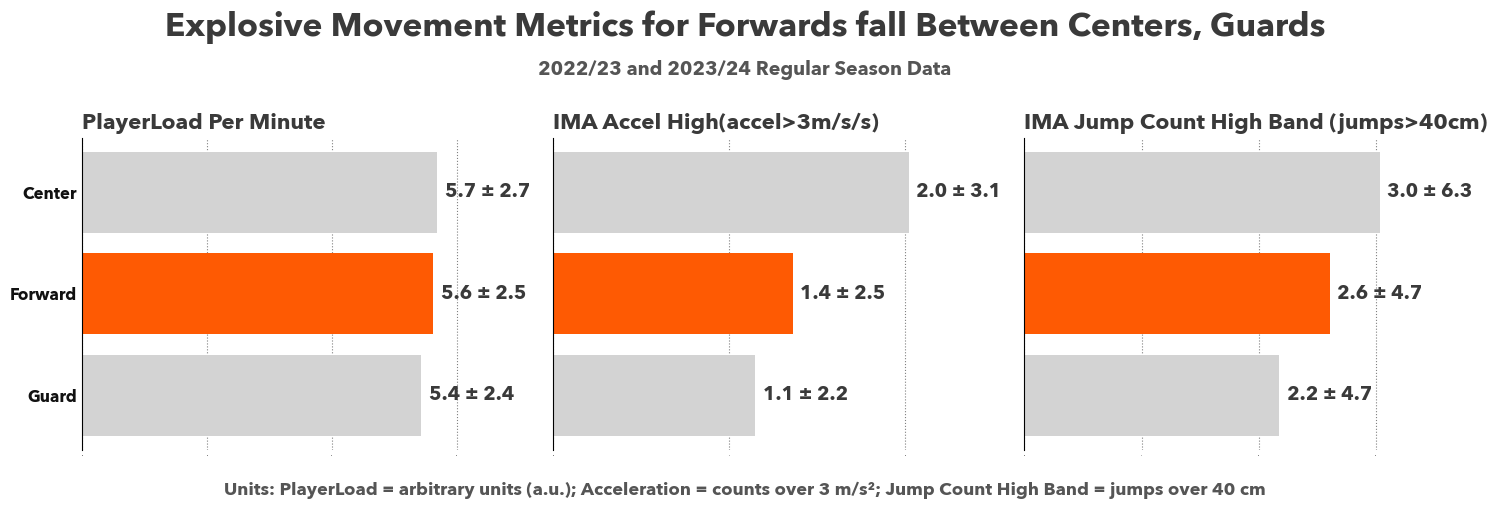
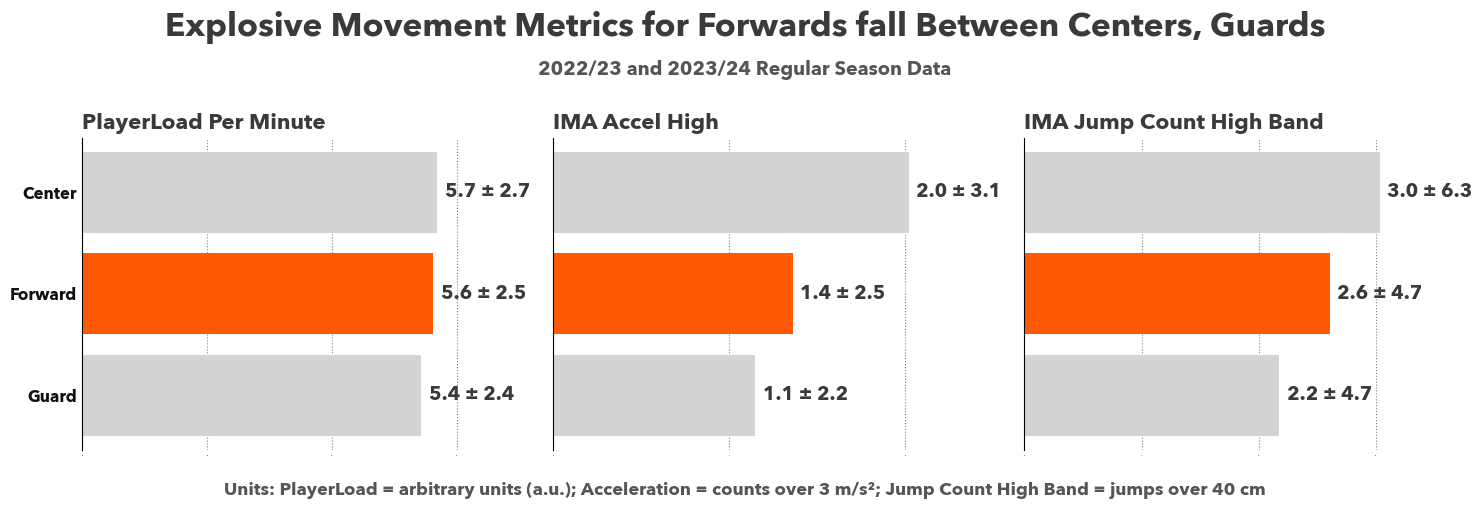
updating graph 1

diff --git a/docs/eda.html b/docs/eda.html
@@ -6,7 +6,7 @@
 
 <meta name="viewport" content="width=device-width, initial-scale=1.0, user-scalable=yes">
 
-<meta name="description" content="Exploring Positional Workloads from the 2022/23 and 2023/24 Seasons">
+<meta name="description" content="How Practice Intensity May Be Affecting UVA Basketball’s Performance">
 
 <title>Exploratory Data Analysis – Player Load &amp; Explosive Movement Analysis - UVA Men's Basketball</title>
 <style>
@@ -220,11 +220,11 @@ pre > code.sourceCode > span > a:first-child::before { text-decoration: underlin
 
 <section id="descriptive-statistics-distributions" class="level3">
 <h3 class="anchored" data-anchor-id="descriptive-statistics-distributions">Descriptive Statistics &amp; Distributions</h3>
-<div id="9b5e4a67" class="cell" data-execution_count="2">
+<div id="8f72082a" class="cell" data-execution_count="2">
 <div class="sourceCode cell-code" id="cb1"><pre class="sourceCode python code-with-copy"><code class="sourceCode python"><span id="cb1-1"><a href="#cb1-1" aria-hidden="true" tabindex="-1"></a><span class="co"># Pulling out key numeric variables</span></span>
 <span id="cb1-2"><a href="#cb1-2" aria-hidden="true" tabindex="-1"></a>vars_list <span class="op">=</span> [<span class="st">'Total Player Load'</span>, <span class="st">'Player Load Per Minute'</span>, <span class="st">'IMA Accel High'</span>, <span class="st">'IMA Jump Count High Band'</span>, <span class="st">'Session Total Jumps'</span>]</span></code><button title="Copy to Clipboard" class="code-copy-button"><i class="bi"></i></button></pre></div>
 </div>
-<div id="0e5939ed" class="cell" data-execution_count="3">
+<div id="488b7097" class="cell" data-execution_count="3">
 <div class="sourceCode cell-code" id="cb2"><pre class="sourceCode python code-with-copy"><code class="sourceCode python"><span id="cb2-1"><a href="#cb2-1" aria-hidden="true" tabindex="-1"></a>forward_df.describe(include<span class="op">=</span>[<span class="bu">int</span>, <span class="bu">float</span>])</span></code><button title="Copy to Clipboard" class="code-copy-button"><i class="bi"></i></button></pre></div>
 <div class="cell-output cell-output-display" data-execution_count="3">
 <div>
@@ -321,7 +321,7 @@ pre > code.sourceCode > span > a:first-child::before { text-decoration: underlin
 </div>
 </div>
 </div>
-<div id="e51ab042" class="cell" data-execution_count="4">
+<div id="7c05da56" class="cell" data-execution_count="4">
 <div class="sourceCode cell-code" id="cb3"><pre class="sourceCode python code-with-copy"><code class="sourceCode python"><span id="cb3-1"><a href="#cb3-1" aria-hidden="true" tabindex="-1"></a>center_df.describe(include<span class="op">=</span>[<span class="bu">int</span>, <span class="bu">float</span>])</span></code><button title="Copy to Clipboard" class="code-copy-button"><i class="bi"></i></button></pre></div>
 <div class="cell-output cell-output-display" data-execution_count="4">
 <div>
@@ -418,7 +418,7 @@ pre > code.sourceCode > span > a:first-child::before { text-decoration: underlin
 </div>
 </div>
 </div>
-<div id="db39394c" class="cell" data-execution_count="5">
+<div id="85d4fc17" class="cell" data-execution_count="5">
 <div class="sourceCode cell-code" id="cb4"><pre class="sourceCode python code-with-copy"><code class="sourceCode python"><span id="cb4-1"><a href="#cb4-1" aria-hidden="true" tabindex="-1"></a>guard_df.describe(include<span class="op">=</span>[<span class="bu">int</span>, <span class="bu">float</span>])</span></code><button title="Copy to Clipboard" class="code-copy-button"><i class="bi"></i></button></pre></div>
 <div class="cell-output cell-output-display" data-execution_count="5">
 <div>
@@ -516,7 +516,7 @@ pre > code.sourceCode > span > a:first-child::before { text-decoration: underlin
 </div>
 </div>
 <p>Mean total player load is highest for forwards, but they also have more variance. It seems that centers have more high band jumps and high accelerations than forwards, indicating that they may not be exerting much effort. We will proceed by exploring our forwards dataframe.</p>
-<div id="ec377c40" class="cell" data-execution_count="6">
+<div id="77178b73" class="cell" data-execution_count="6">
 <div class="sourceCode cell-code" id="cb5"><pre class="sourceCode python code-with-copy"><code class="sourceCode python"><span id="cb5-1"><a href="#cb5-1" aria-hidden="true" tabindex="-1"></a>sns.lineplot(data<span class="op">=</span>forward_df, x<span class="op">=</span><span class="st">'Period Number'</span>, y<span class="op">=</span><span class="st">'Player Load Per Minute'</span>, hue<span class="op">=</span><span class="st">'About'</span>, legend<span class="op">=</span><span class="va">False</span>, alpha<span class="op">=</span><span class="fl">0.5</span>)</span>
 <span id="cb5-2"><a href="#cb5-2" aria-hidden="true" tabindex="-1"></a>sns.despine()</span>
 <span id="cb5-3"><a href="#cb5-3" aria-hidden="true" tabindex="-1"></a>plt.title(<span class="st">"PlayerLoad by Period"</span>)</span>
@@ -531,7 +531,7 @@ pre > code.sourceCode > span > a:first-child::before { text-decoration: underlin
 </div>
 </div>
 <p>We can see that PlayerLoad does change by period, peaking with periods around 2. From our dataframe it appears these are the game periods, indicating higher effort exerted during games than practices by forwards. This should be noted as we progress throughout our project.</p>
-<div id="9ed565bb" class="cell" data-execution_count="7">
+<div id="5334c2fd" class="cell" data-execution_count="7">
 <div class="sourceCode cell-code" id="cb6"><pre class="sourceCode python code-with-copy"><code class="sourceCode python"><span id="cb6-1"><a href="#cb6-1" aria-hidden="true" tabindex="-1"></a>fig, axes <span class="op">=</span> plt.subplots(<span class="bu">len</span>(vars_list), <span class="dv">1</span>, figsize<span class="op">=</span>(<span class="dv">4</span>, <span class="dv">2</span><span class="op">*</span><span class="bu">len</span>(vars_list)))</span>
 <span id="cb6-2"><a href="#cb6-2" aria-hidden="true" tabindex="-1"></a></span>
 <span id="cb6-3"><a href="#cb6-3" aria-hidden="true" tabindex="-1"></a><span class="cf">for</span> i, column <span class="kw">in</span> <span class="bu">enumerate</span>(vars_list):</span>
@@ -551,7 +551,7 @@ pre > code.sourceCode > span > a:first-child::before { text-decoration: underlin
 </div>
 </div>
 <p>Session total jumps appears to be roughly normally distributed here, as well as player load per minute. Our other variables are skewed to the right, indicating we have high outliers. We can look at boxplots of our skewed variables to explore this further.</p>
-<div id="901c5a66" class="cell" data-execution_count="8">
+<div id="396cf0e7" class="cell" data-execution_count="8">
 <div class="sourceCode cell-code" id="cb7"><pre class="sourceCode python code-with-copy"><code class="sourceCode python"><span id="cb7-1"><a href="#cb7-1" aria-hidden="true" tabindex="-1"></a>sns.boxplot(forward_df[<span class="st">'Total Player Load'</span>])</span>
 <span id="cb7-2"><a href="#cb7-2" aria-hidden="true" tabindex="-1"></a>plt.title(<span class="st">'Boxplot of Total Player Load'</span>)</span>
 <span id="cb7-3"><a href="#cb7-3" aria-hidden="true" tabindex="-1"></a>sns.despine()</span>
@@ -564,7 +564,7 @@ pre > code.sourceCode > span > a:first-child::before { text-decoration: underlin
 </div>
 </div>
 </div>
-<div id="03b4ae02" class="cell" data-execution_count="9">
+<div id="6b565cdb" class="cell" data-execution_count="9">
 <div class="sourceCode cell-code" id="cb8"><pre class="sourceCode python code-with-copy"><code class="sourceCode python"><span id="cb8-1"><a href="#cb8-1" aria-hidden="true" tabindex="-1"></a>sns.boxplot(forward_df[<span class="st">'IMA Accel High'</span>])</span>
 <span id="cb8-2"><a href="#cb8-2" aria-hidden="true" tabindex="-1"></a>plt.title(<span class="st">'Boxplot of IMA Accel High'</span>)</span>
 <span id="cb8-3"><a href="#cb8-3" aria-hidden="true" tabindex="-1"></a>sns.despine()</span>
@@ -577,7 +577,7 @@ pre > code.sourceCode > span > a:first-child::before { text-decoration: underlin
 </div>
 </div>
 </div>
-<div id="4d1ade00" class="cell" data-execution_count="10">
+<div id="10f8c48e" class="cell" data-execution_count="10">
 <div class="sourceCode cell-code" id="cb9"><pre class="sourceCode python code-with-copy"><code class="sourceCode python"><span id="cb9-1"><a href="#cb9-1" aria-hidden="true" tabindex="-1"></a>sns.boxplot(forward_df[<span class="st">'IMA Jump Count High Band'</span>])</span>
 <span id="cb9-2"><a href="#cb9-2" aria-hidden="true" tabindex="-1"></a>plt.title(<span class="st">'Boxplot of IMA Jump Count High Band'</span>)</span>
 <span id="cb9-3"><a href="#cb9-3" aria-hidden="true" tabindex="-1"></a>sns.despine()</span>
@@ -591,7 +591,7 @@ pre > code.sourceCode > span > a:first-child::before { text-decoration: underlin
 </div>
 </div>
 <p>There are clearly many high outliers in our data set</p>
-<div id="88e6379e" class="cell" data-execution_count="11">
+<div id="da9c4086" class="cell" data-execution_count="11">
 <div class="sourceCode cell-code" id="cb10"><pre class="sourceCode python code-with-copy"><code class="sourceCode python"><span id="cb10-1"><a href="#cb10-1" aria-hidden="true" tabindex="-1"></a><span class="co">#games_df = df[df['Period'].isin(['2. Period 1', '3. Period 2', '1. Warmup'])]</span></span>
 <span id="cb10-2"><a href="#cb10-2" aria-hidden="true" tabindex="-1"></a><span class="co">#practice_df = df[~df['Period'].isin(['2. Period 1', '3. Period 2', '1. Warmup'])]</span></span>
 <span id="cb10-3"><a href="#cb10-3" aria-hidden="true" tabindex="-1"></a></span>
@@ -601,7 +601,7 @@ pre > code.sourceCode > span > a:first-child::before { text-decoration: underlin
 </section>
 <section id="exploring-relationships-between-our-variables" class="level3">
 <h3 class="anchored" data-anchor-id="exploring-relationships-between-our-variables">Exploring relationships between our variables</h3>
-<div id="fb63965b" class="cell" data-execution_count="12">
+<div id="72318b5e" class="cell" data-execution_count="12">
 <div class="sourceCode cell-code" id="cb11"><pre class="sourceCode python code-with-copy"><code class="sourceCode python"><span id="cb11-1"><a href="#cb11-1" aria-hidden="true" tabindex="-1"></a><span class="co"># Pairplots showing correlation between our key variables</span></span>
 <span id="cb11-2"><a href="#cb11-2" aria-hidden="true" tabindex="-1"></a>key_vars_df <span class="op">=</span> forward_df[vars_list]</span>
 <span id="cb11-3"><a href="#cb11-3" aria-hidden="true" tabindex="-1"></a>sns.pairplot(key_vars_df, plot_kws<span class="op">=</span>{<span class="st">'color'</span>: <span class="st">'orange'</span>})</span>
@@ -615,7 +615,7 @@ pre > code.sourceCode > span > a:first-child::before { text-decoration: underlin
 </div>
 </div>
 <p>From the pair plots it can be seen that there is a moderate correlation between Total Player Load and IMA Accel High. Other than that there are no relationships that seem to show great correlation between our variables. Collinearity does not appear to be of concern but we can look at a heatmap of our most important variables to explore more precise values.</p>
-<div id="d9257ba1" class="cell" data-execution_count="13">
+<div id="ad34aa9e" class="cell" data-execution_count="13">
 <div class="sourceCode cell-code" id="cb12"><pre class="sourceCode python code-with-copy"><code class="sourceCode python"><span id="cb12-1"><a href="#cb12-1" aria-hidden="true" tabindex="-1"></a>selected_cols <span class="op">=</span> [<span class="st">'Player Load Per Minute'</span>, <span class="st">'IMA Accel High'</span>, <span class="st">'IMA Jump Count High Band'</span>]</span>
 <span id="cb12-2"><a href="#cb12-2" aria-hidden="true" tabindex="-1"></a>key_corr <span class="op">=</span> forward_df[selected_cols].corr()</span>
 <span id="cb12-3"><a href="#cb12-3" aria-hidden="true" tabindex="-1"></a></span>

diff --git a/docs/datacleaning.html b/docs/datacleaning.html
@@ -6,7 +6,7 @@
 
 <meta name="viewport" content="width=device-width, initial-scale=1.0, user-scalable=yes">
 
-<meta name="description" content="Exploring Positional Workloads from the 2022/23 and 2023/24 Seasons">
+<meta name="description" content="How Practice Intensity May Be Affecting UVA Basketball’s Performance">
 
 <title>Data Cleaning – Player Load &amp; Explosive Movement Analysis - UVA Men's Basketball</title>
 <style>
@@ -217,7 +217,7 @@ pre > code.sourceCode > span > a:first-child::before { text-decoration: underlin
 
 <section id="initial-exploration-variable-selection" class="level3">
 <h3 class="anchored" data-anchor-id="initial-exploration-variable-selection">Initial Exploration, Variable Selection</h3>
-<div id="714b8285" class="cell" data-execution_count="2">
+<div id="5d54d0e1" class="cell" data-execution_count="2">
 <div class="sourceCode cell-code" id="cb1"><pre class="sourceCode python code-with-copy"><code class="sourceCode python"><span id="cb1-1"><a href="#cb1-1" aria-hidden="true" tabindex="-1"></a>s1_df <span class="op">=</span> pd.read_csv(<span class="st">"../project/EDA/Data/catapult_s1.csv"</span>)</span>
 <span id="cb1-2"><a href="#cb1-2" aria-hidden="true" tabindex="-1"></a>s1_df <span class="op">=</span> pd.DataFrame(s1_df)</span>
 <span id="cb1-3"><a href="#cb1-3" aria-hidden="true" tabindex="-1"></a></span>
@@ -225,17 +225,17 @@ pre > code.sourceCode > span > a:first-child::before { text-decoration: underlin
 <span id="cb1-5"><a href="#cb1-5" aria-hidden="true" tabindex="-1"></a>s2_df <span class="op">=</span> pd.DataFrame(s2_df)</span></code><button title="Copy to Clipboard" class="code-copy-button"><i class="bi"></i></button></pre></div>
 </div>
 <p>Our first step in preparing our data was reading it in. We read in the two dataframes for the individual UVA basketball seasons(2022-23 and 2023-24). Note: This data is simulated</p>
-<div id="fc4b4d04" class="cell" data-execution_count="3">
+<div id="9d3185e5" class="cell" data-execution_count="3">
 <div class="sourceCode cell-code" id="cb2"><pre class="sourceCode python code-with-copy"><code class="sourceCode python"><span id="cb2-1"><a href="#cb2-1" aria-hidden="true" tabindex="-1"></a>s1_df[<span class="st">'Season'</span>] <span class="op">=</span> <span class="st">'Season 1'</span></span>
 <span id="cb2-2"><a href="#cb2-2" aria-hidden="true" tabindex="-1"></a>s2_df[<span class="st">'Season'</span>] <span class="op">=</span> <span class="st">'Season 2'</span></span>
 <span id="cb2-3"><a href="#cb2-3" aria-hidden="true" tabindex="-1"></a>df <span class="op">=</span> pd.concat([s1_df, s2_df], ignore_index<span class="op">=</span><span class="va">True</span>)</span></code><button title="Copy to Clipboard" class="code-copy-button"><i class="bi"></i></button></pre></div>
 </div>
 <p>We then combined both seasons, centralizing our data into one single dataframe.</p>
-<div id="6874d89c" class="cell" data-execution_count="4">
+<div id="1ae90c7b" class="cell" data-execution_count="4">
 <div class="sourceCode cell-code" id="cb3"><pre class="sourceCode python code-with-copy"><code class="sourceCode python"><span id="cb3-1"><a href="#cb3-1" aria-hidden="true" tabindex="-1"></a>df <span class="op">=</span> df[[<span class="st">'Date'</span>, <span class="st">'Season'</span>, <span class="st">'About'</span>, <span class="st">'Position'</span>, <span class="st">'Period Number'</span>, <span class="st">'Period'</span>, <span class="st">'Total Player Load'</span>, <span class="st">'Player Load Per Minute'</span>, <span class="st">'IMA Accel High'</span>, <span class="st">'IMA Jump Count High Band'</span>, <span class="st">'Session Total Jumps'</span>]]</span></code><button title="Copy to Clipboard" class="code-copy-button"><i class="bi"></i></button></pre></div>
 </div>
 <p>Once we had all of our data read into one dataframe, we filtered it down to include only our variables of interest (as shown above). We wanted to explore exertion in both practice in games, with a focus on positional differences. We felt that PlayerLoad, IMA Accel High, IMA Jump Count High Band, and Session Total Jumps would provide the most insight on this topic. We also kept identifying variables such as date, season, period, etc.</p>
-<div id="3076954f" class="cell" data-execution_count="5">
+<div id="ff763734" class="cell" data-execution_count="5">
 <div class="sourceCode cell-code" id="cb4"><pre class="sourceCode python code-with-copy"><code class="sourceCode python"><span id="cb4-1"><a href="#cb4-1" aria-hidden="true" tabindex="-1"></a>plt.figure(figsize<span class="op">=</span>(<span class="dv">12</span>, <span class="dv">6</span>))</span>
 <span id="cb4-2"><a href="#cb4-2" aria-hidden="true" tabindex="-1"></a>sns.heatmap(df.isnull(), cbar<span class="op">=</span><span class="va">False</span>, cmap<span class="op">=</span><span class="st">"viridis"</span>)</span>
 <span id="cb4-3"><a href="#cb4-3" aria-hidden="true" tabindex="-1"></a>plt.title(<span class="st">"Missing Data Heatmap"</span>)</span>
@@ -249,7 +249,7 @@ pre > code.sourceCode > span > a:first-child::before { text-decoration: underlin
 </div>
 </div>
 <p>We used a heatmap to visualize the number of missing values in our dataframe, which can be seen in yellow. This indicates that our Session Total Jumps variable(referring to the total number of jumps each player has in all periods at each date) is missing a lot of values. We will not use Session Total Jumps in our report as a key variable considering the prevalence of missing values.</p>
-<div id="ffc74f61" class="cell" data-execution_count="6">
+<div id="192d01fe" class="cell" data-execution_count="6">
 <div class="sourceCode cell-code" id="cb5"><pre class="sourceCode python code-with-copy"><code class="sourceCode python"><span id="cb5-1"><a href="#cb5-1" aria-hidden="true" tabindex="-1"></a><span class="co"># Check data types</span></span>
 <span id="cb5-2"><a href="#cb5-2" aria-hidden="true" tabindex="-1"></a><span class="bu">print</span>(df.dtypes)</span></code><button title="Copy to Clipboard" class="code-copy-button"><i class="bi"></i></button></pre></div>
 <div class="cell-output cell-output-stdout">
@@ -268,7 +268,7 @@ dtype: object</code></pre>
 </div>
 </div>
 <p>We proceeded to check our data types to see if we would need to convert any variables to a different type(such as an object to an int/float). We concluded that we did not need to do so.</p>
-<div id="5b4af439" class="cell" data-execution_count="7">
+<div id="3878117b" class="cell" data-execution_count="7">
 <div class="sourceCode cell-code" id="cb7"><pre class="sourceCode python code-with-copy"><code class="sourceCode python"><span id="cb7-1"><a href="#cb7-1" aria-hidden="true" tabindex="-1"></a><span class="co"># Convert Date to datetime</span></span>
 <span id="cb7-2"><a href="#cb7-2" aria-hidden="true" tabindex="-1"></a>df[<span class="st">'Date'</span>] <span class="op">=</span> pd.to_datetime(df[<span class="st">'Date'</span>])</span></code><button title="Copy to Clipboard" class="code-copy-button"><i class="bi"></i></button></pre></div>
 </div>
@@ -276,30 +276,30 @@ dtype: object</code></pre>
 </section>
 <section id="removing-observations" class="level3">
 <h3 class="anchored" data-anchor-id="removing-observations">Removing Observations</h3>
-<div id="ff541e5c" class="cell" data-execution_count="8">
+<div id="840a3ff9" class="cell" data-execution_count="8">
 <div class="sourceCode cell-code" id="cb8"><pre class="sourceCode python code-with-copy"><code class="sourceCode python"><span id="cb8-1"><a href="#cb8-1" aria-hidden="true" tabindex="-1"></a>df.shape</span></code><button title="Copy to Clipboard" class="code-copy-button"><i class="bi"></i></button></pre></div>
 <div class="cell-output cell-output-display" data-execution_count="8">
 <pre><code>(29442, 11)</code></pre>
 </div>
 </div>
 <p>Looking at the shape of our dataframe, we currently have 29,442 observations of 11 variables</p>
-<div id="46c1d78f" class="cell" data-execution_count="9">
+<div id="fe02ff90" class="cell" data-execution_count="9">
 <div class="sourceCode cell-code" id="cb10"><pre class="sourceCode python code-with-copy"><code class="sourceCode python"><span id="cb10-1"><a href="#cb10-1" aria-hidden="true" tabindex="-1"></a><span class="co"># Remove duplicates</span></span>
 <span id="cb10-2"><a href="#cb10-2" aria-hidden="true" tabindex="-1"></a>df <span class="op">=</span> df.drop_duplicates()</span></code><button title="Copy to Clipboard" class="code-copy-button"><i class="bi"></i></button></pre></div>
 </div>
-<div id="32c50575" class="cell" data-execution_count="10">
+<div id="544e134d" class="cell" data-execution_count="10">
 <div class="sourceCode cell-code" id="cb11"><pre class="sourceCode python code-with-copy"><code class="sourceCode python"><span id="cb11-1"><a href="#cb11-1" aria-hidden="true" tabindex="-1"></a>df.shape</span></code><button title="Copy to Clipboard" class="code-copy-button"><i class="bi"></i></button></pre></div>
 <div class="cell-output cell-output-display" data-execution_count="10">
 <pre><code>(29401, 11)</code></pre>
 </div>
 </div>
 <p>After dropping our duplicate variables, we are left with 29,401 observations, indicating a low prevalence of duplicates.</p>
-<div id="cf0dddce" class="cell" data-execution_count="11">
+<div id="dcba70e4" class="cell" data-execution_count="11">
 <div class="sourceCode cell-code" id="cb13"><pre class="sourceCode python code-with-copy"><code class="sourceCode python"><span id="cb13-1"><a href="#cb13-1" aria-hidden="true" tabindex="-1"></a><span class="co"># Removing Vander Plas rows</span></span>
 <span id="cb13-2"><a href="#cb13-2" aria-hidden="true" tabindex="-1"></a>df <span class="op">=</span> df[df[<span class="st">'About'</span>] <span class="op">!=</span> <span class="st">'Ben Vander Plas'</span>]</span></code><button title="Copy to Clipboard" class="code-copy-button"><i class="bi"></i></button></pre></div>
 </div>
 <p>We removed all observations where Ben Vander Plas was the athlete. We did this because this data is supposed to be anonymous and we did not want to reveal any personal information about players.</p>
-<div id="90ae0693" class="cell" data-execution_count="12">
+<div id="4ebc4e57" class="cell" data-execution_count="12">
 <div class="sourceCode cell-code" id="cb14"><pre class="sourceCode python code-with-copy"><code class="sourceCode python"><span id="cb14-1"><a href="#cb14-1" aria-hidden="true" tabindex="-1"></a><span class="co"># Splitting up so we can look at positional differences</span></span>
 <span id="cb14-2"><a href="#cb14-2" aria-hidden="true" tabindex="-1"></a>forward_df <span class="op">=</span> df[df[<span class="st">'Position'</span>] <span class="op">==</span> <span class="st">'Forward'</span>]</span>
 <span id="cb14-3"><a href="#cb14-3" aria-hidden="true" tabindex="-1"></a>guard_df <span class="op">=</span> df[df[<span class="st">'Position'</span>] <span class="op">==</span> <span class="st">'Guard'</span>]</span>

diff --git a/docs/dataviz.html b/docs/dataviz.html
@@ -6,7 +6,7 @@
 
 <meta name="viewport" content="width=device-width, initial-scale=1.0, user-scalable=yes">
 
-<meta name="description" content="Exploring Positional Workloads from the 2022/23 and 2023/24 Seasons">
+<meta name="description" content="How Practice Intensity May Be Affecting UVA Basketball’s Performance">
 
 <title>Dataviz – Player Load &amp; Explosive Movement Analysis - UVA Men's Basketball</title>
 <style>
@@ -218,7 +218,7 @@ pre > code.sourceCode > span > a:first-child::before { text-decoration: underlin
 
 <section id="graph-1-code" class="level3">
 <h3 class="anchored" data-anchor-id="graph-1-code">Graph 1 Code</h3>
-<div id="5b1c6074" class="cell" data-execution_count="2">
+<div id="11067800" class="cell" data-execution_count="2">
 <div class="sourceCode cell-code" id="cb1"><pre class="sourceCode python code-with-copy"><code class="sourceCode python"><span id="cb1-1"><a href="#cb1-1" aria-hidden="true" tabindex="-1"></a><span class="co"># Setting font</span></span>
 <span id="cb1-2"><a href="#cb1-2" aria-hidden="true" tabindex="-1"></a>plt.rcParams[<span class="st">'font.family'</span>] <span class="op">=</span> <span class="st">'Avenir Next'</span></span>
 <span id="cb1-3"><a href="#cb1-3" aria-hidden="true" tabindex="-1"></a></span>
@@ -229,7 +229,7 @@ pre > code.sourceCode > span > a:first-child::before { text-decoration: underlin
 <span id="cb1-8"><a href="#cb1-8" aria-hidden="true" tabindex="-1"></a>           ha<span class="op">=</span><span class="st">'center'</span>, fontsize<span class="op">=</span><span class="dv">14</span>, style<span class="op">=</span><span class="st">'italic'</span>, color<span class="op">=</span><span class="st">'#555555'</span>)</span>
 <span id="cb1-9"><a href="#cb1-9" aria-hidden="true" tabindex="-1"></a></span>
 <span id="cb1-10"><a href="#cb1-10" aria-hidden="true" tabindex="-1"></a><span class="co"># Define metrics and names</span></span>
-<span id="cb1-11"><a href="#cb1-11" aria-hidden="true" tabindex="-1"></a>metrics <span class="op">=</span> [<span class="st">'PlayerLoad Per Minute'</span>, <span class="st">'IMA Accel High(accel&gt;3m/s/s)'</span>, <span class="st">'IMA Jump Count High Band (jumps&gt;40cm)'</span>]</span>
+<span id="cb1-11"><a href="#cb1-11" aria-hidden="true" tabindex="-1"></a>metrics <span class="op">=</span> [<span class="st">'PlayerLoad Per Minute'</span>, <span class="st">'IMA Accel High'</span>, <span class="st">'IMA Jump Count High Band'</span>]</span>
 <span id="cb1-12"><a href="#cb1-12" aria-hidden="true" tabindex="-1"></a>metric_keys <span class="op">=</span> [<span class="st">'Player Load Per Minute'</span>, <span class="st">'IMA Accel High'</span>, <span class="st">'IMA Jump Count High Band'</span>] </span>
 <span id="cb1-13"><a href="#cb1-13" aria-hidden="true" tabindex="-1"></a></span>
 <span id="cb1-14"><a href="#cb1-14" aria-hidden="true" tabindex="-1"></a><span class="co"># Setting color to be orange for forwards, gray for all else</span></span>
@@ -316,15 +316,16 @@ pre > code.sourceCode > span > a:first-child::before { text-decoration: underlin
 <div class="cell-output cell-output-display">
 <div>
 <figure class="figure">
-<p><img src="dataviz_files/figure-html/cell-3-output-1.png" width="1437" height="489" class="figure-img"></p>
+<p><img src="dataviz_files/figure-html/cell-3-output-1.png" width="1424" height="489" class="figure-img"></p>
 </figure>
 </div>
 </div>
 </div>
+<p>Note: Variables such as jump count cannot be negative</p>
 </section>
 <section id="graph-2-code" class="level3">
 <h3 class="anchored" data-anchor-id="graph-2-code">Graph 2 Code</h3>
-<div id="7944a85c" class="cell" data-execution_count="3">
+<div id="ddac3954" class="cell" data-execution_count="3">
 <div class="sourceCode cell-code" id="cb2"><pre class="sourceCode python code-with-copy"><code class="sourceCode python"><span id="cb2-1"><a href="#cb2-1" aria-hidden="true" tabindex="-1"></a><span class="co"># Add session type column</span></span>
 <span id="cb2-2"><a href="#cb2-2" aria-hidden="true" tabindex="-1"></a>forward_df[<span class="st">'Session Type'</span>] <span class="op">=</span> np.where(</span>
 <span id="cb2-3"><a href="#cb2-3" aria-hidden="true" tabindex="-1"></a>    forward_df[<span class="st">'Period'</span>].<span class="bu">str</span>.contains(<span class="vs">r'\bperiod\b\s*\d*'</span>, case<span class="op">=</span><span class="va">False</span>, na<span class="op">=</span><span class="va">False</span>),</span>
@@ -365,7 +366,7 @@ pre > code.sourceCode > span > a:first-child::before { text-decoration: underlin
 <span id="cb2-38"><a href="#cb2-38" aria-hidden="true" tabindex="-1"></a>plt.tight_layout()</span>
 <span id="cb2-39"><a href="#cb2-39" aria-hidden="true" tabindex="-1"></a>plt.show()</span></code><button title="Copy to Clipboard" class="code-copy-button"><i class="bi"></i></button></pre></div>
 <div class="cell-output cell-output-stderr">
-<pre><code>/var/folders/n6/pgk9bwwd15g8ch5_lb0_0gvm0000gn/T/ipykernel_44815/1289544084.py:2: SettingWithCopyWarning:
+<pre><code>/var/folders/n6/pgk9bwwd15g8ch5_lb0_0gvm0000gn/T/ipykernel_57017/1289544084.py:2: SettingWithCopyWarning:
 
 
 A value is trying to be set on a copy of a slice from a DataFrame.
@@ -385,7 +386,7 @@ See the caveats in the documentation: https://pandas.pydata.org/pandas-docs/stab
 </section>
 <section id="graph-3-code" class="level3">
 <h3 class="anchored" data-anchor-id="graph-3-code">Graph 3 Code</h3>
-<div id="3e3427c8" class="cell" data-execution_count="4">
+<div id="33c67464" class="cell" data-execution_count="4">
 <div class="sourceCode cell-code" id="cb4"><pre class="sourceCode python code-with-copy"><code class="sourceCode python"><span id="cb4-1"><a href="#cb4-1" aria-hidden="true" tabindex="-1"></a>plt.rcParams[<span class="st">'font.family'</span>] <span class="op">=</span> <span class="st">'Avenir Next'</span></span>
 <span id="cb4-2"><a href="#cb4-2" aria-hidden="true" tabindex="-1"></a></span>
 <span id="cb4-3"><a href="#cb4-3" aria-hidden="true" tabindex="-1"></a><span class="co"># Separate games and practice sessions</span></span>

diff --git a/docs/index.html b/docs/index.html
@@ -7,8 +7,8 @@
 <meta name="viewport" content="width=device-width, initial-scale=1.0, user-scalable=yes">
 
 <meta name="author" content="Tristen Davin, Margaux Reynolds, Benjamin Berinsky, Ben Garozzo">
-<meta name="dcterms.date" content="2025-05-05">
-<meta name="description" content="Exploring Positional Workloads from the 2022/23 and 2023/24 Seasons">
+<meta name="dcterms.date" content="2025-05-06">
+<meta name="description" content="How Practice Intensity May Be Affecting UVA Basketball’s Performance">
 
 <title>Player Load &amp; Explosive Movement Analysis - UVA Men’s Basketball</title>
 <style>
@@ -175,7 +175,7 @@ ul.task-list li input[type="checkbox"] {
 
 <div>
   <div class="description">
-    Exploring Positional Workloads from the 2022/23 and 2023/24 Seasons
+    How Practice Intensity May Be Affecting UVA Basketball’s Performance
   </div>
 </div>
 
@@ -192,7 +192,7 @@ ul.task-list li input[type="checkbox"] {
     <div>
     <div class="quarto-title-meta-heading">Published</div>
     <div class="quarto-title-meta-contents">
-      <p class="date">May 5, 2025</p>
+      <p class="date">May 6, 2025</p>
     </div>
   </div>
   

diff --git a/docs/datadictionary.html b/docs/datadictionary.html
@@ -6,7 +6,7 @@
 
 <meta name="viewport" content="width=device-width, initial-scale=1.0, user-scalable=yes">
 
-<meta name="description" content="Exploring Positional Workloads from the 2022/23 and 2023/24 Seasons">
+<meta name="description" content="How Practice Intensity May Be Affecting UVA Basketball’s Performance">
 
 <title>Data Dictionary – Player Load &amp; Explosive Movement Analysis - UVA Men's Basketball</title>
 <style>
